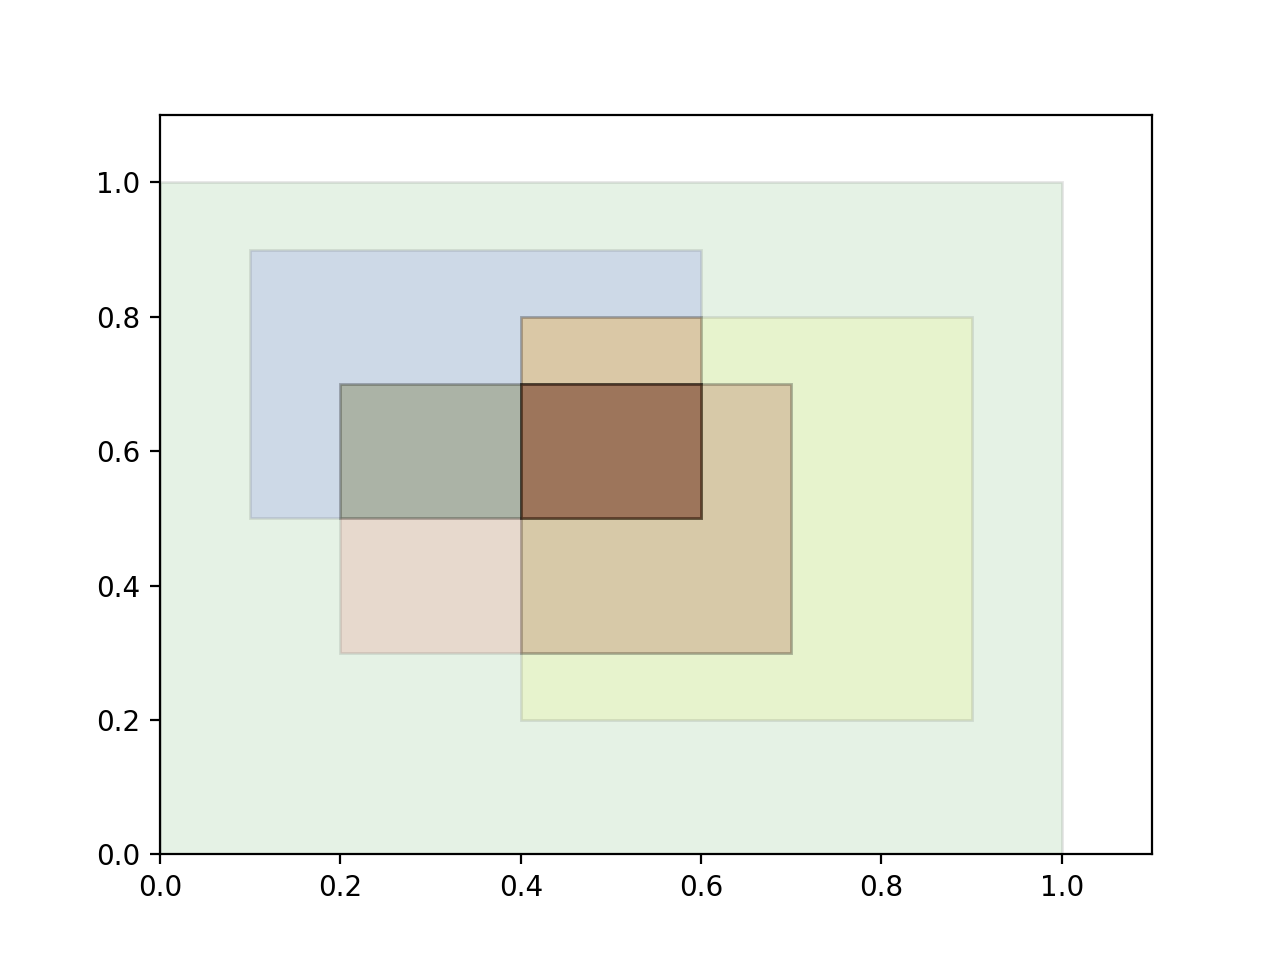
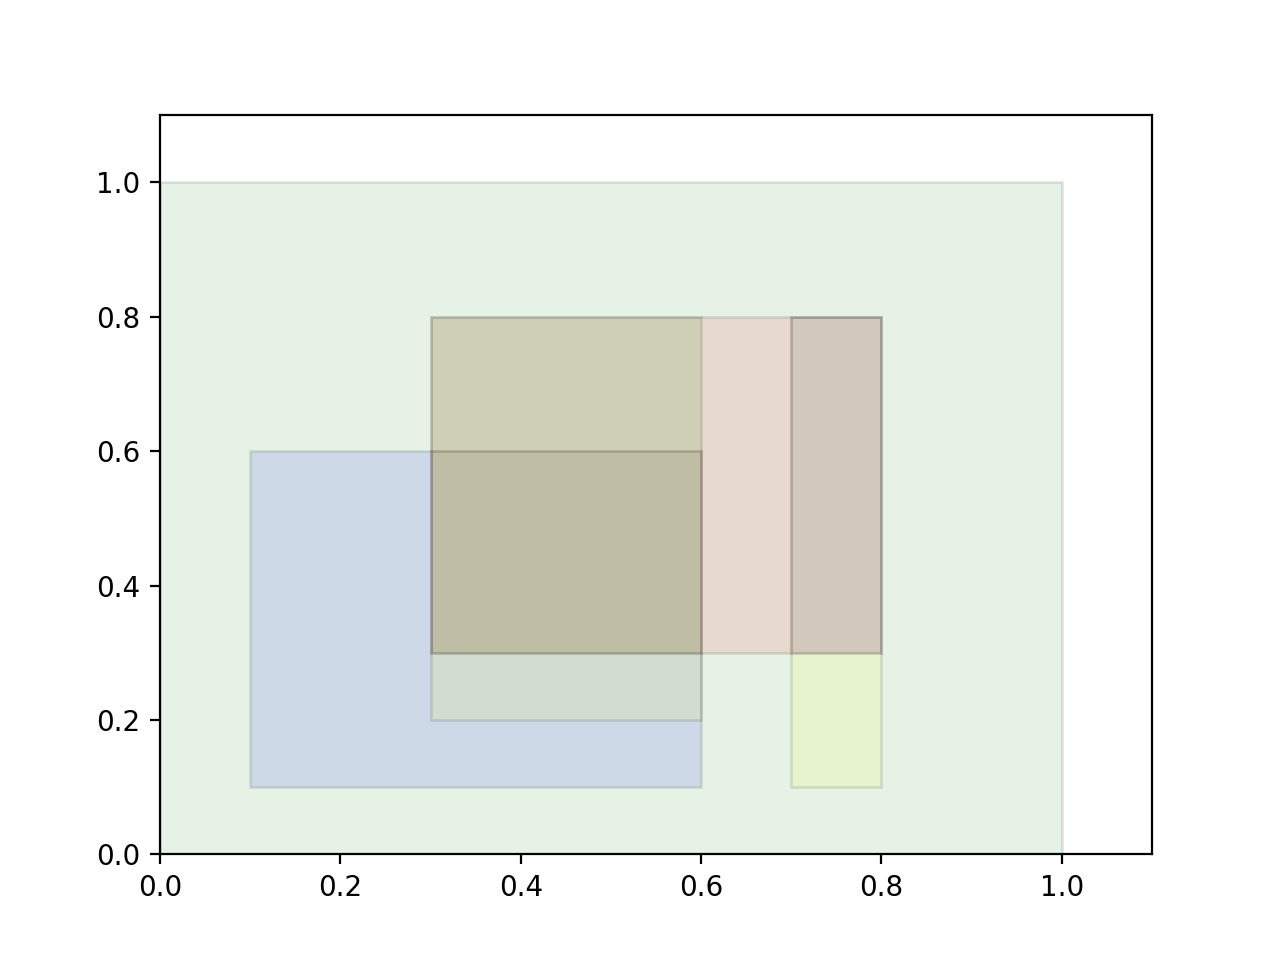
new

Changed region(s): [[0.1875, 0.25, 0.6875, 0.8438]]

diff --git a/hist_rtree.py b/hist_rtree.py
@@ -77,80 +77,141 @@ def find_small_parent(query: Bucket, root: Bucket):
             return node
 
 
-def find_overlap_with_query(query: Bucket, root: Bucket, overlaps: set, visited: set):
+@profile
+def find_overlap_with_query(query: Bucket, root: Bucket, overlaps: set, visited: set, query_contains: set):
     target = True  # 标记，指示root的孩子节点中是否有包含query的，若target=True，则root就是query的最小父节点，将query添加到root的孩子节点中
-    overlap_contains_buckets = []
-    for id in root.children:
+    old_overlap_contains_buckets = []  # 保存root中的child和query相交产生的孩子
+    new_overlap_contains_buckets = []   # 保存root中的child和query相交产生的孩子
+    this_visited = set()
+    for id in root.children.copy():
         if id in overlaps:  # 和query相交
             bucket = global_buckets_dict[id]
             if id in visited:  # 已经被查过
                 if are_coincide(query, bucket.overlap_with_query.data):  # query已经被包含过
-                    root.overlap_with_query = bucket.overlap_with_query
                     target = False
-                    ret = root.overlap_with_query.dataset
-                    break
+                    cret = bucket.overlap_with_query.dataset
+                    ccover = 0
+                    cset = {}
+                    # root.overlap_with_query.data = bucket.overlap_with_query.data
+                    # root.overlap_with_query.dataset = bucket.overlap_with_query.dataset
                 else:
-                    overlap_contains_buckets.append(
-                        bucket.overlap_with_query.dataset)
+                    old_overlap_contains_buckets.append(
+                        bucket.overlap_with_query)
             else:  # 未被查过
                 if are_contain(bucket, query):  # bucket包含query
                     target = False
-                    ret = find_overlap_with_query(
-                        query, bucket, overlaps, visited)
                     bucket.overlap_with_query = root.overlap_with_query
-
+                    cret, ccover, cset = find_overlap_with_query(
+                        query, bucket, overlaps, visited, query_contains)
+                    bucket.overlap_with_query.dataset = cret
+                    bucket.overlap_with_query.delta_cover = ccover
+                    bucket.overlap_with_query.delta_composed = cset
                 else:  # bucket不包含query
                     new_overlap = get_overlap(query, bucket)
-                    ret = find_overlap_with_query(
-                        new_overlap, bucket, overlaps, visited)
-                    overlap_contains_buckets.append(ret)
+                    bucket.overlap_with_query = Container()
                     bucket.overlap_with_query.data = new_overlap
-                bucket.overlap_with_query.dataset = ret
+                    oret, ocover, oset = find_overlap_with_query(
+                        new_overlap, bucket, overlaps, visited, query_contains)
+                    bucket.overlap_with_query.dataset = oret
+                    bucket.overlap_with_query.delta_cover = ocover
+                    bucket.overlap_with_query.delta_composed = oset
+                    new_overlap_contains_buckets.append(
+                        bucket.overlap_with_query)
                 visited.add(id)
     if target:  # 其孩子节点均不包含input
-        query_contains, contains_volume = check_cover(query)
-        this_contain = query_contains & root.children
+
+        overlap_contain_buckets = set()
+        new_composed_ids = set()
+        new_delta_composed = set()
+
+        # 处理new_overlap_contains
+        n_overlap_cover_volume = 0
+        for item in new_overlap_contains_buckets:
+            n_overlap_cover_volume += item.delta_cover
+            dataset = item.dataset
+            if isinstance(dataset, set):
+                overlap_contain_buckets |= dataset
+            else:
+                overlap_contain_buckets.add(dataset)
+            new_composed_ids |= item.delta_composed
+
+        # 处理old_overlap_contains
+        o_overlap_cover_volume = 0
+        for item in old_overlap_contains_buckets:
+            o_overlap_cover_volume += item.delta_cover
+            dataset = item.dataset
+            if isinstance(dataset, set):
+                overlap_contain_buckets |= dataset
+            else:
+                overlap_contain_buckets.add(dataset)
+            new_composed_ids |= item.delta_composed
+
+        # 处理contains
+        this_contains = query_contains & root.children   # child中被包含在query中的bucket的id
         this_contain_buckets = set([global_buckets_dict[id]
-                                   for id in this_contain])
-        valid_contains = cacl_valid_contains(
-            this_contain_buckets, overlap_contains_buckets, query_contains)
+                                   for id in this_contains])  # buckets
+        this_query_contains = set()
+        for bucket in this_contain_buckets:
+            this_query_contains |= bucket.composed
+
+        remain_contains = this_query_contains-overlap_contain_buckets
+
+        contains_volume = np.sum([global_buckets_dict[i] for i in remain_contains]
+                                 ) + o_overlap_cover_volume+n_overlap_cover_volume
+
+        new_delta_composed = new_composed_ids.copy()
+
+        contains_volume = o_overlap_cover_volume+n_overlap_cover_volume
 
         if are_floats_equal(contains_volume, query.volume):
-            return valid_contains
+            return this_query_contains+overlap_contain_buckets
         else:  # 添加
             add_global_bucket(query)
             # 删除root的children中属于query的
             root.delete_contains(this_contain_buckets)
             # 向query中添加bucket
+            new_composed = set()
             for item in valid_contains:
                 query._init_add(item)
+                new_composed |= item.composed
+            query.composed = new_composed
+            root.composed |= query.composed
             query.volume -= contains_volume
             root.add_for_overlap(query)
             if is_close_to_zero(root.volume):
                 merge_bucket_with_parent(root)
-            return query
+
+            return query, root.cover_volume-o_overlap_cover_volume, new_delta_composed
     else:
-        return ret
+        return cret, ccover, cset
 
 
-def cacl_valid_contains(this_contains: set, overlap_contains_buckets: set, query_contains: set):
-    overlap_contains_set = set()
-    for item in overlap_contains_buckets:
+def cacl_valid_contains(this_contain_buckets: set, overlap_contain_buckets: list, query_contains: set):
+    valid_contain_buckets = set()
+
+    # 找到overlap_contain_buckets中合法的
+
+    overlap_contain_set = set()
+    for item in overlap_contain_buckets:
         if isinstance(item, set):
-            overlap_contains_set |= item
+            overlap_contain_set |= item
         else:
-            overlap_contains_set.add(item)
-    valid_overlaps = set()
-    for bucket in overlap_contains_set:
+            overlap_contain_set.add(item)
+    overlap_contain_list = list(overlap_contain_set)
+    overlap_contain_list.sort(key=lambda x: x.cover_volume)
+
+    valid_contain_buckets |= this_contain_buckets
+
+    for bucket in overlap_contain_list:
         valid_flag = True
         for parent in bucket.parents:
-            if parent.identifier in query_contains:
+            if parent in valid_contain_buckets:
                 valid_flag = False
                 break
         if valid_flag:
-            valid_overlaps.add(bucket)
-    valid_overlaps |= this_contains
-    return valid_overlaps & query_contains
+            valid_contain_buckets.add(bucket)
+
+    return valid_contain_buckets
 
 
 def merge_bucket_with_parent(bucket: Bucket):
@@ -171,6 +232,7 @@ def merge_bucket_with_parent(bucket: Bucket):
         parent.merge_update(bucket, global_buckets_dict)
 
 
+@profile
 def check_cover(query: Bucket):
     query_contains = set(global_buckets_rtree.contains(query.coordinates))
     contains_volume = np.sum(
@@ -178,6 +240,7 @@ def check_cover(query: Bucket):
     return query_contains, contains_volume
 
 
+@profile
 def feed_a_query_root(query: Bucket, root: Bucket):
     global global_buckets_rtree, global_buckets_dict
 
@@ -188,7 +251,6 @@ def feed_a_query_root(query: Bucket, root: Bucket):
 
     if not are_floats_equal(contains_volume, query.volume):
         parent = find_small_parent(query, root)  # 包含query的最小的bucket
-        assert parent is not None
 
         parent_contains = set(global_buckets_rtree.contains(
             parent.coordinates))
@@ -204,8 +266,9 @@ def feed_a_query_root(query: Bucket, root: Bucket):
             if are_disjoint(bucket, query):
                 overlap_to_remove.add(id)
         overlaps -= overlap_to_remove
-
-        find_overlap_with_query(query, parent, overlaps, visited=set())
+        visited = set()
+        find_overlap_with_query(query, parent, overlaps,
+                                visited, query_contains)
 
 
 def construct_histogram(queries, mins, maxs, num_tuples):
@@ -215,7 +278,7 @@ def construct_histogram(queries, mins, maxs, num_tuples):
     root_bucket = Bucket(mins, maxs, num_tuples)
     global_buckets_dict[0] = root_bucket
     start = time.time()
-    input_buckets = gen_query_buckets(queries)
+    input_buckets = gen_query_buckets(queries)[:40]
     gen_global_rtree(input_buckets)
     num_buckets = len(input_buckets)
     for i, bucket in enumerate(input_buckets):
@@ -228,7 +291,7 @@ def construct_histogram(queries, mins, maxs, num_tuples):
 
 
 def test():
-    """ queries = [Bucket(mins=[0.1, 0.1], maxs=[0.6, 0.6]),
+    queries = [Bucket(mins=[0.1, 0.1], maxs=[0.6, 0.6]),
                Bucket(mins=[0.3, 0.65], maxs=[0.5, 0.7]),
                Bucket(mins=[0.3, 0.5], maxs=[0.5, 0.8]),
                Bucket(mins=[0.1, 0.1], maxs=[0.6, 0.6]), ]
@@ -241,14 +304,14 @@ def test():
         # Bucket(mins=[0.3, 0.2], maxs=[0.6, 0.8]),
         # Bucket(mins=[0.1, 0.1], maxs=[0.6, 0.6]),
         # Bucket(mins=[0.1, 0.65], maxs=[0.5, 0.7]),
-    ] """
+    ]
 
-    queries = [
+    """ queries = [
         Bucket(mins=[0.1, 0.5], maxs=[0.6, 0.9], card=6),
         Bucket(mins=[0.4, 0.2], maxs=[0.9, 0.8], card=10),
         Bucket(mins=[0.2, 0.3], maxs=[0.7, 0.7], card=20),
     ]
-
+    """
     hist = construct_histogram(queries, [0, 0], [1, 1], 1000)
     print(global_buckets_dict.keys())
 

diff --git a/bucket.py b/bucket.py
@@ -6,6 +6,8 @@ class Container:
     def __init__(self):
         self.dataset = set()
         self.data = None
+        self.delta_composed = set()
+        self.delta_cover = 0.
 
 
 class Bucket:
@@ -21,11 +23,8 @@ class Bucket:
         self.volume = cacl_volume(mins, maxs)
         self.cover_volume = self.volume
         self.density = self.card/self.volume
-        self.feature_cover = 0
-        self.feature_father = 0
-        self.featured_children = set()
         self.composed = set()
-        self.overlap_small_parent = [None]
+
 
     def add_for_query(self, input, covers, global_buckets_rtree, global_buckets_dict, input_volume=0):
         if isinstance(input, list):
@@ -56,13 +55,11 @@ class Bucket:
         self.volume -= input.volume
 
     def _init_add(self, bucket):
-        assert bucket.identifier != 0
         identifier = bucket.identifier
         bucket.parents.add(self)
         self.children.add(identifier)
 
     def delete_a_child(self, bucket):
-        assert bucket.identifier != 0
         identifier = bucket.identifier
         bucket.parents.remove(self)
         self.children.remove(identifier)
@@ -74,7 +71,6 @@ class Bucket:
     def merge_update(self, bucket, buckets_dict):
         # print("merge_update")
         identifier = bucket.identifier
-        assert identifier != 0
         self.children.remove(identifier)
         for c in bucket.children:
             child = buckets_dict[c]

diff --git a/try.py b/try.py
@@ -1,8 +1,38 @@
-from rtree import index
+""" from rtree import index
 
 rtree = index.Index()
+
 
 rtree.insert(0,[0,0,1,1])
 rtree.insert(1,[1,0,2,1])
 
-print(set(rtree.intersection([0,0,1,1])))
+print(set(rtree.intersection([0,0,1,1]))) """
+
+class Container:
+    def __init__(self):
+        self.dataset = set()
+        self.data = None
+
+
+class Bucket:
+    def __init__(self, id=0):
+        self.identifier = id
+        self.overlap_with_query = Container()
+
+def test():
+    a = Bucket(1)
+    b = Bucket(2)
+    c = Bucket(3)
+    set_a = {a,b}
+    
+    set_b = set_a.copy()
+    
+    set_a.add(c)
+    
+    print(set_a)
+    print(set_b)
+
+test()
+
+
+
